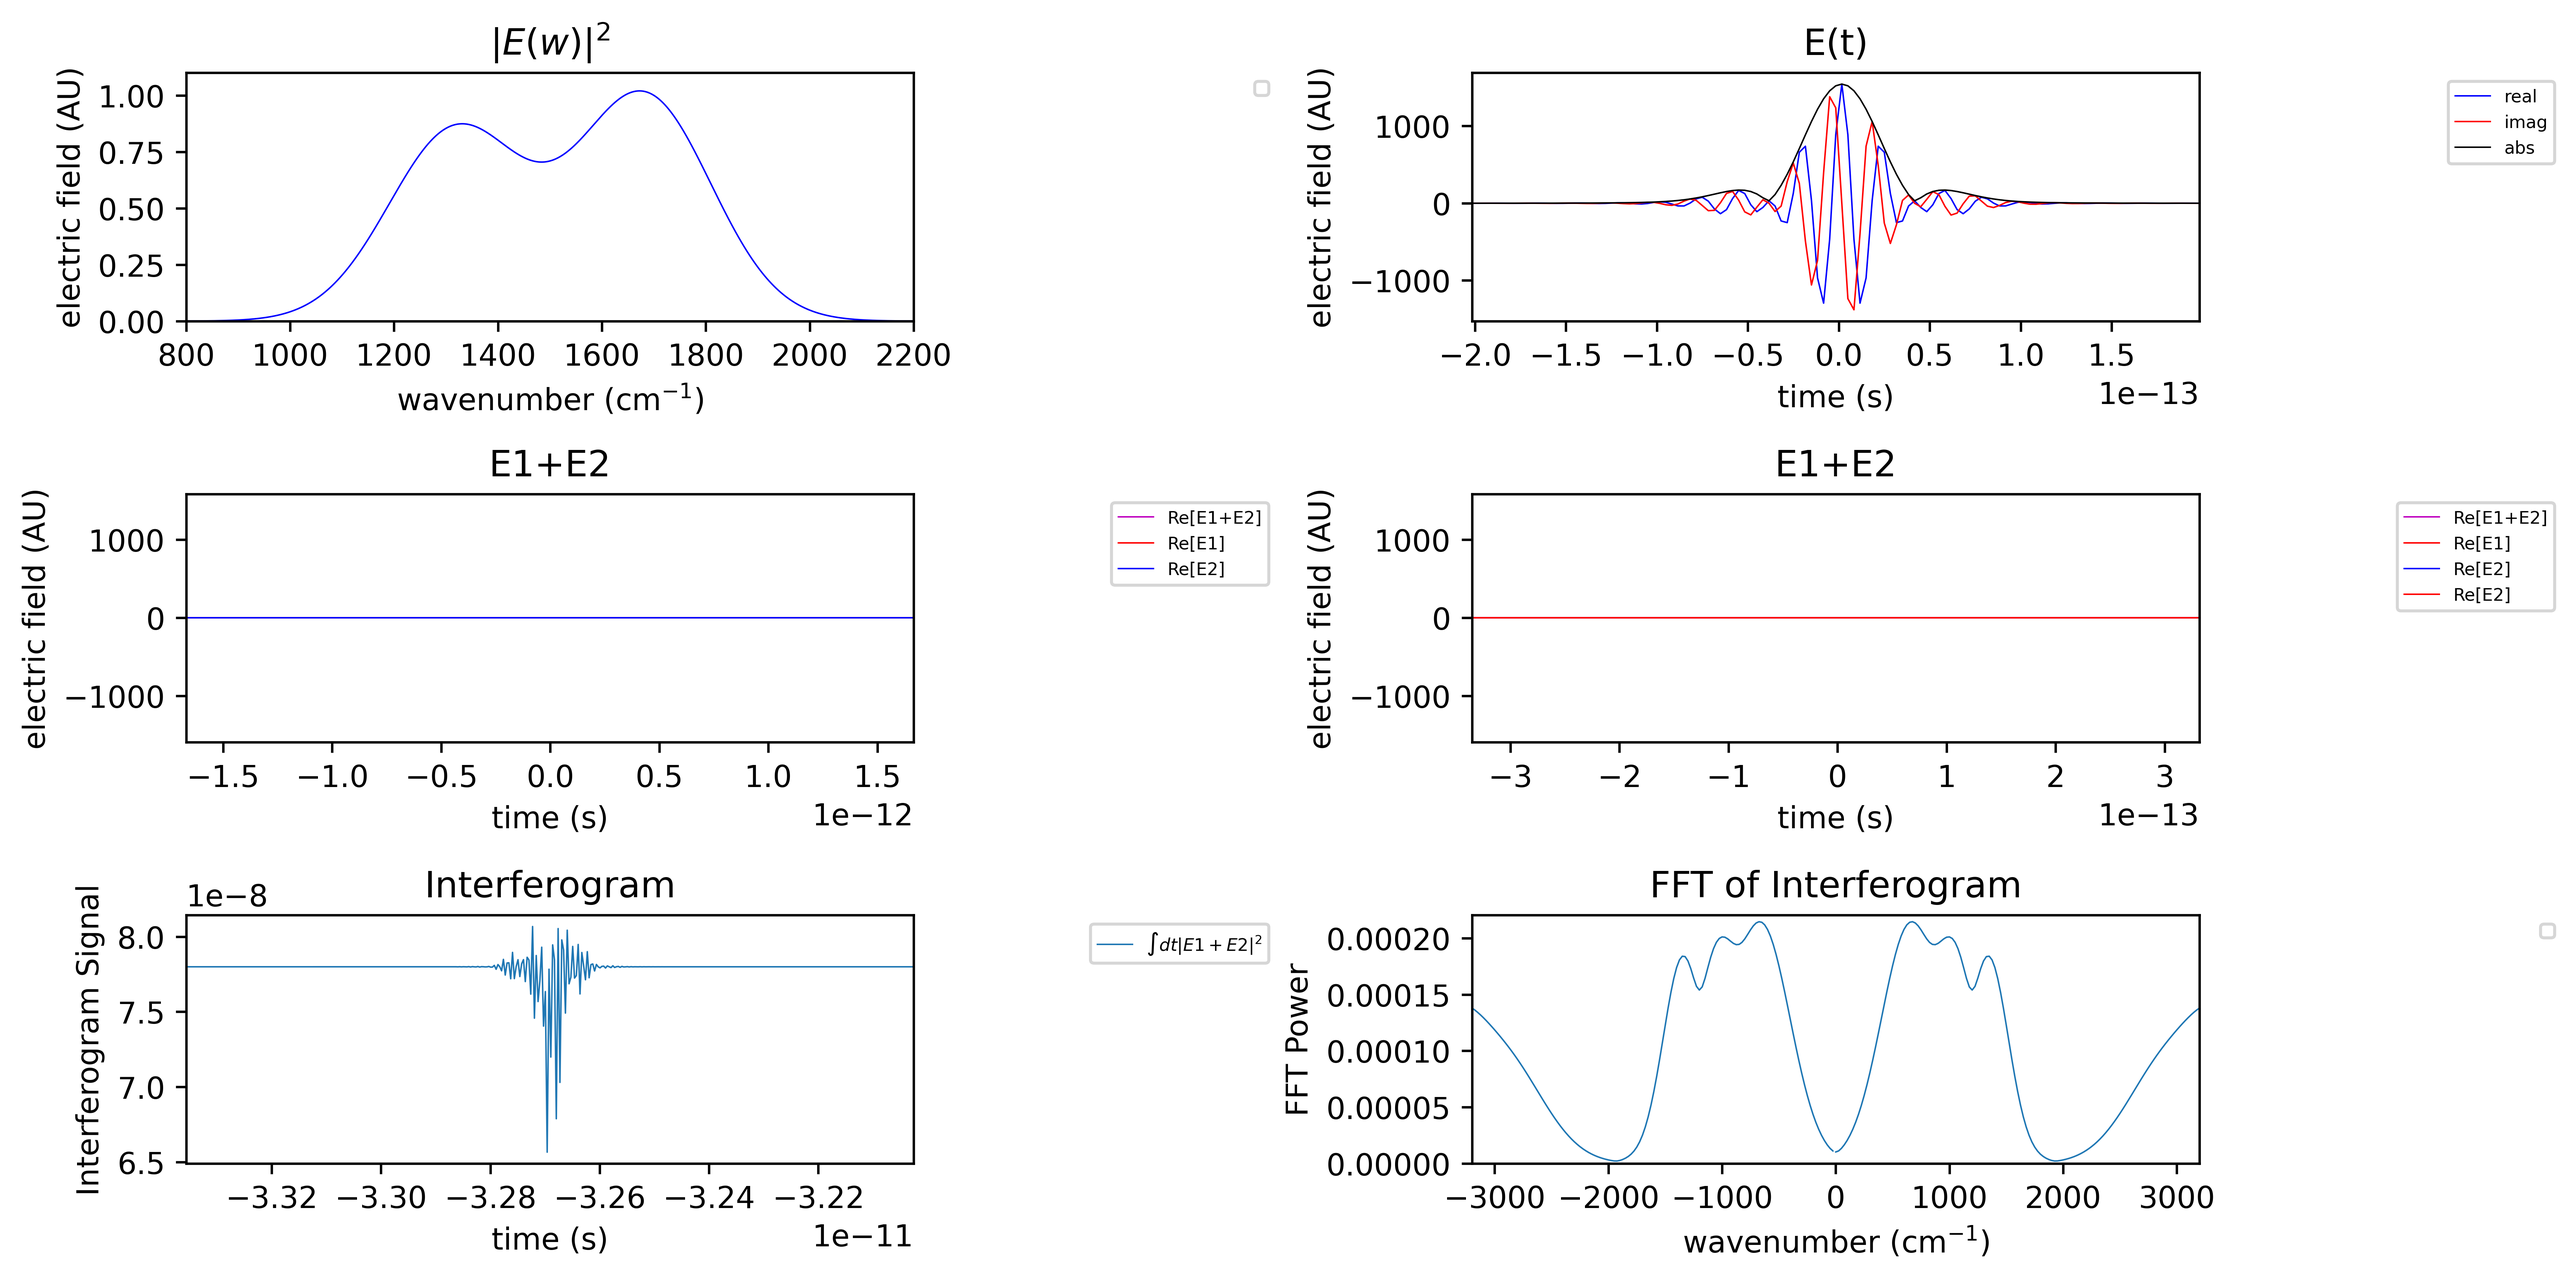
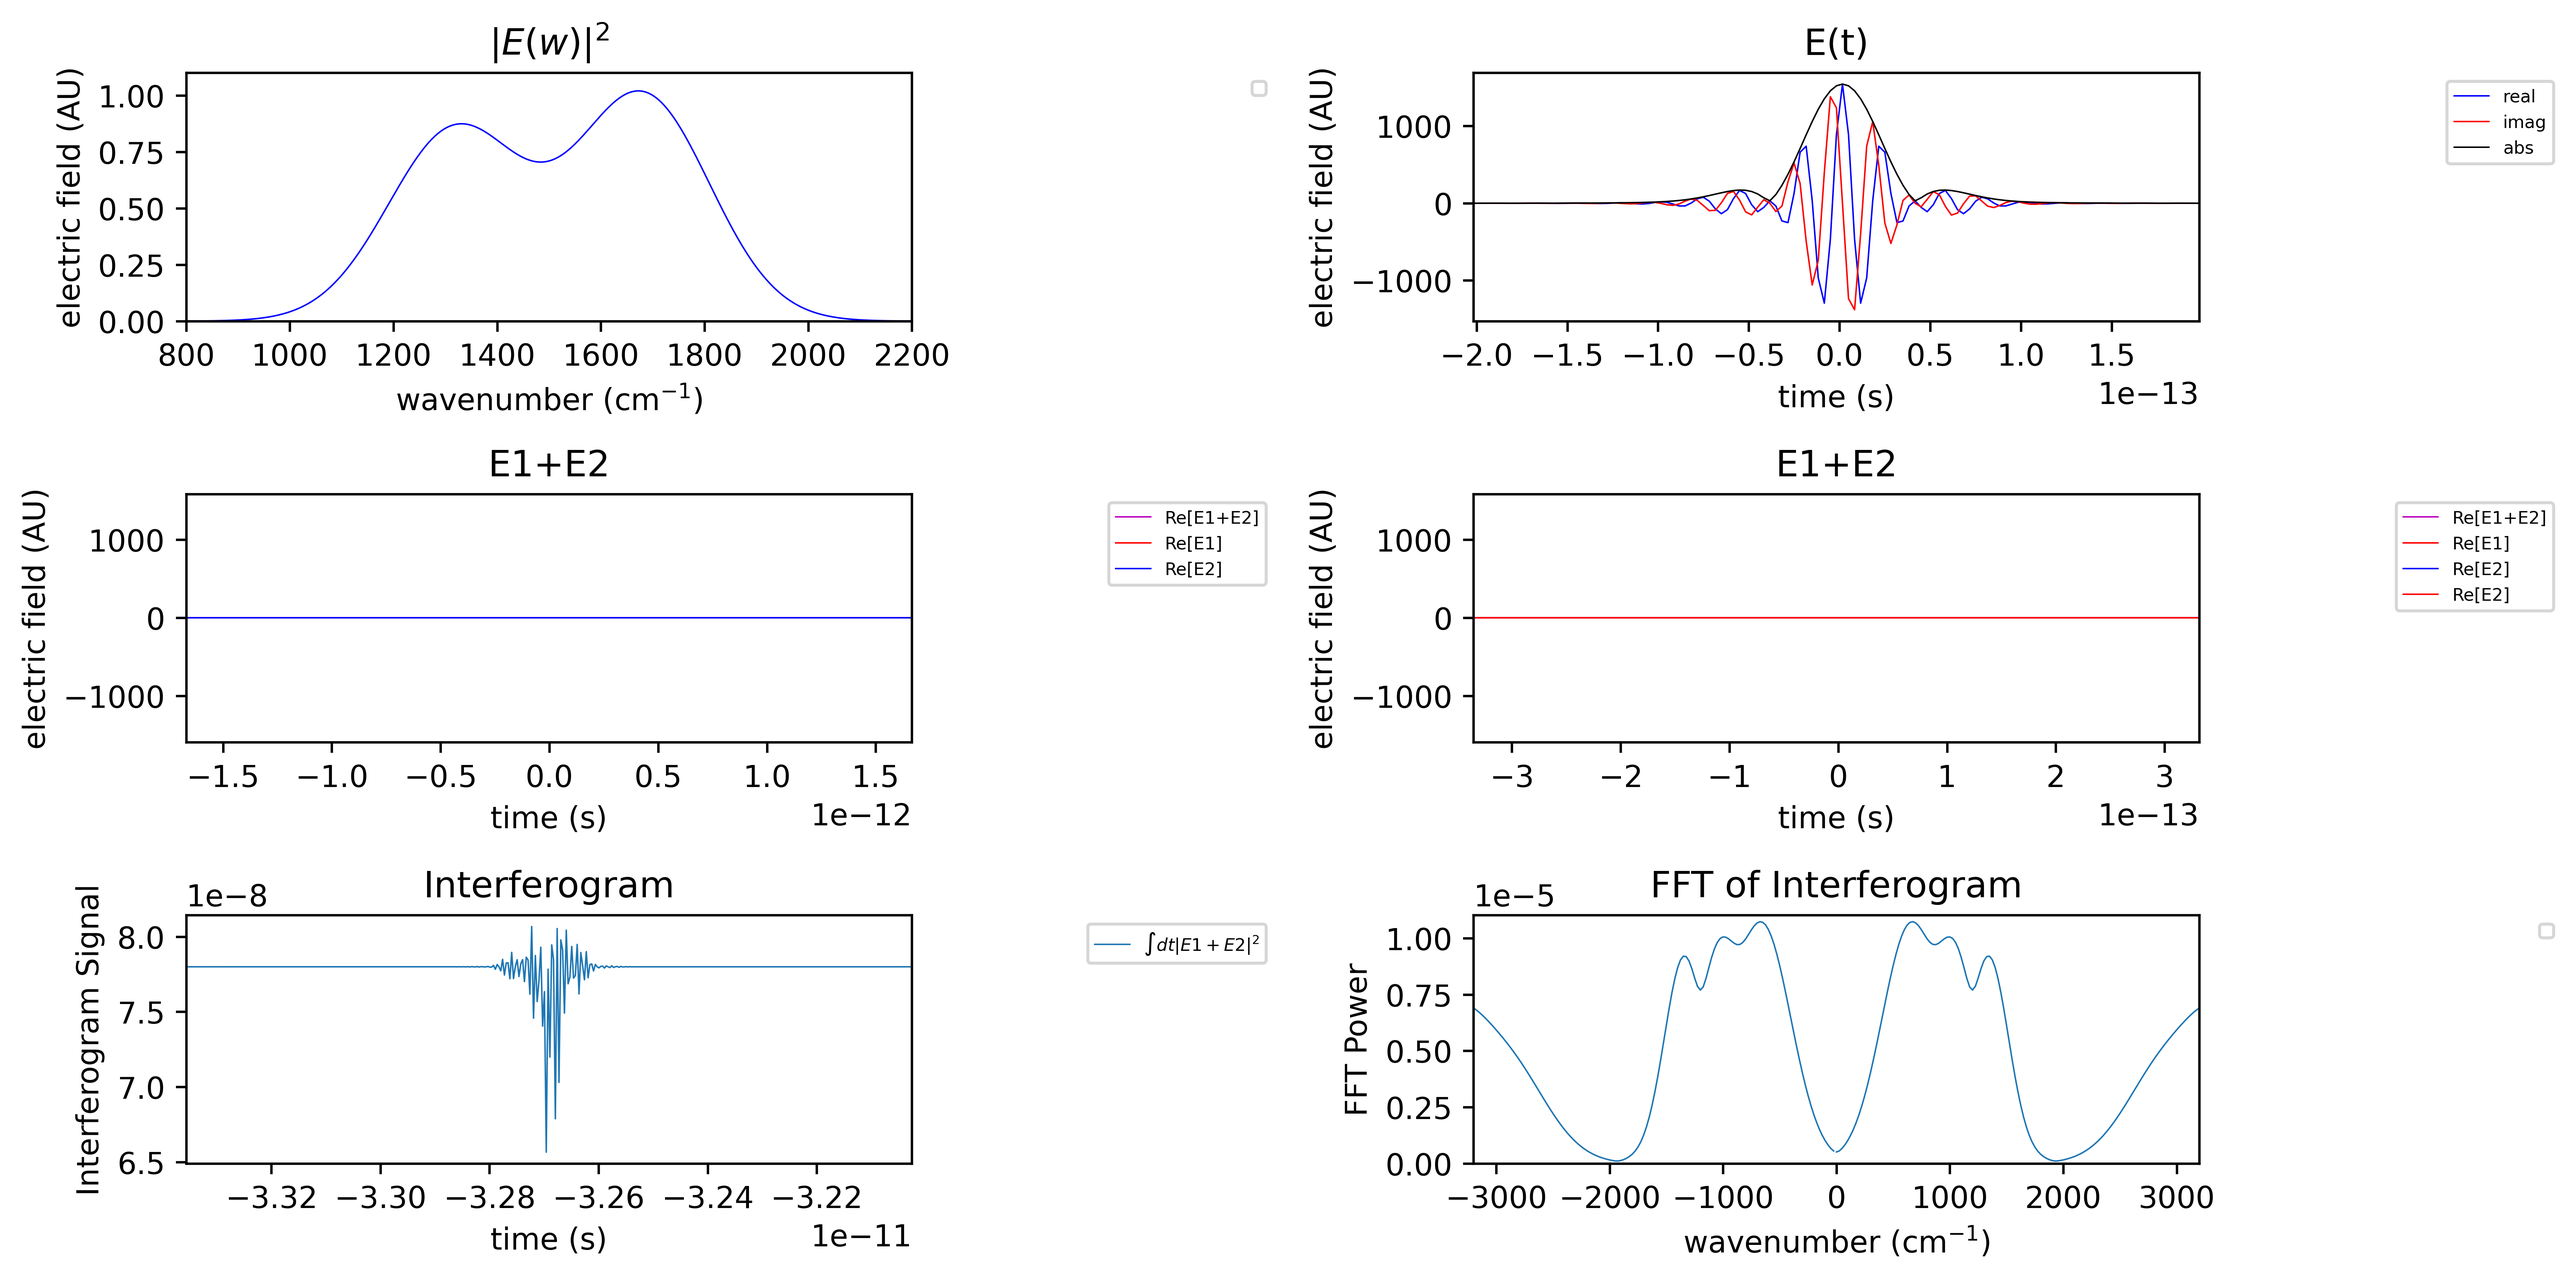
try fft rather than ifft

diff --git a/interf.py b/interf.py
@@ -138,7 +138,7 @@ def main(args):
 
     #Make sixth subplot
     ax = fig.add_subplot(gs[2,1], title='FFT of Interferogram')
-    interferogram_spectrum = np.abs(np.fft.fftshift(np.fft.fft(interf_t)))
+    interferogram_spectrum = np.abs(np.fft.fftshift(np.fft.ifft(interf_t)))
     interferogram_spectrum = np.sqrt(interferogram_spectrum)
     w_interf = np.fft.fftfreq(n=interf_t.size, d=dt)/c
     ax.plot(w_interf, interferogram_spectrum, lw=lw)
